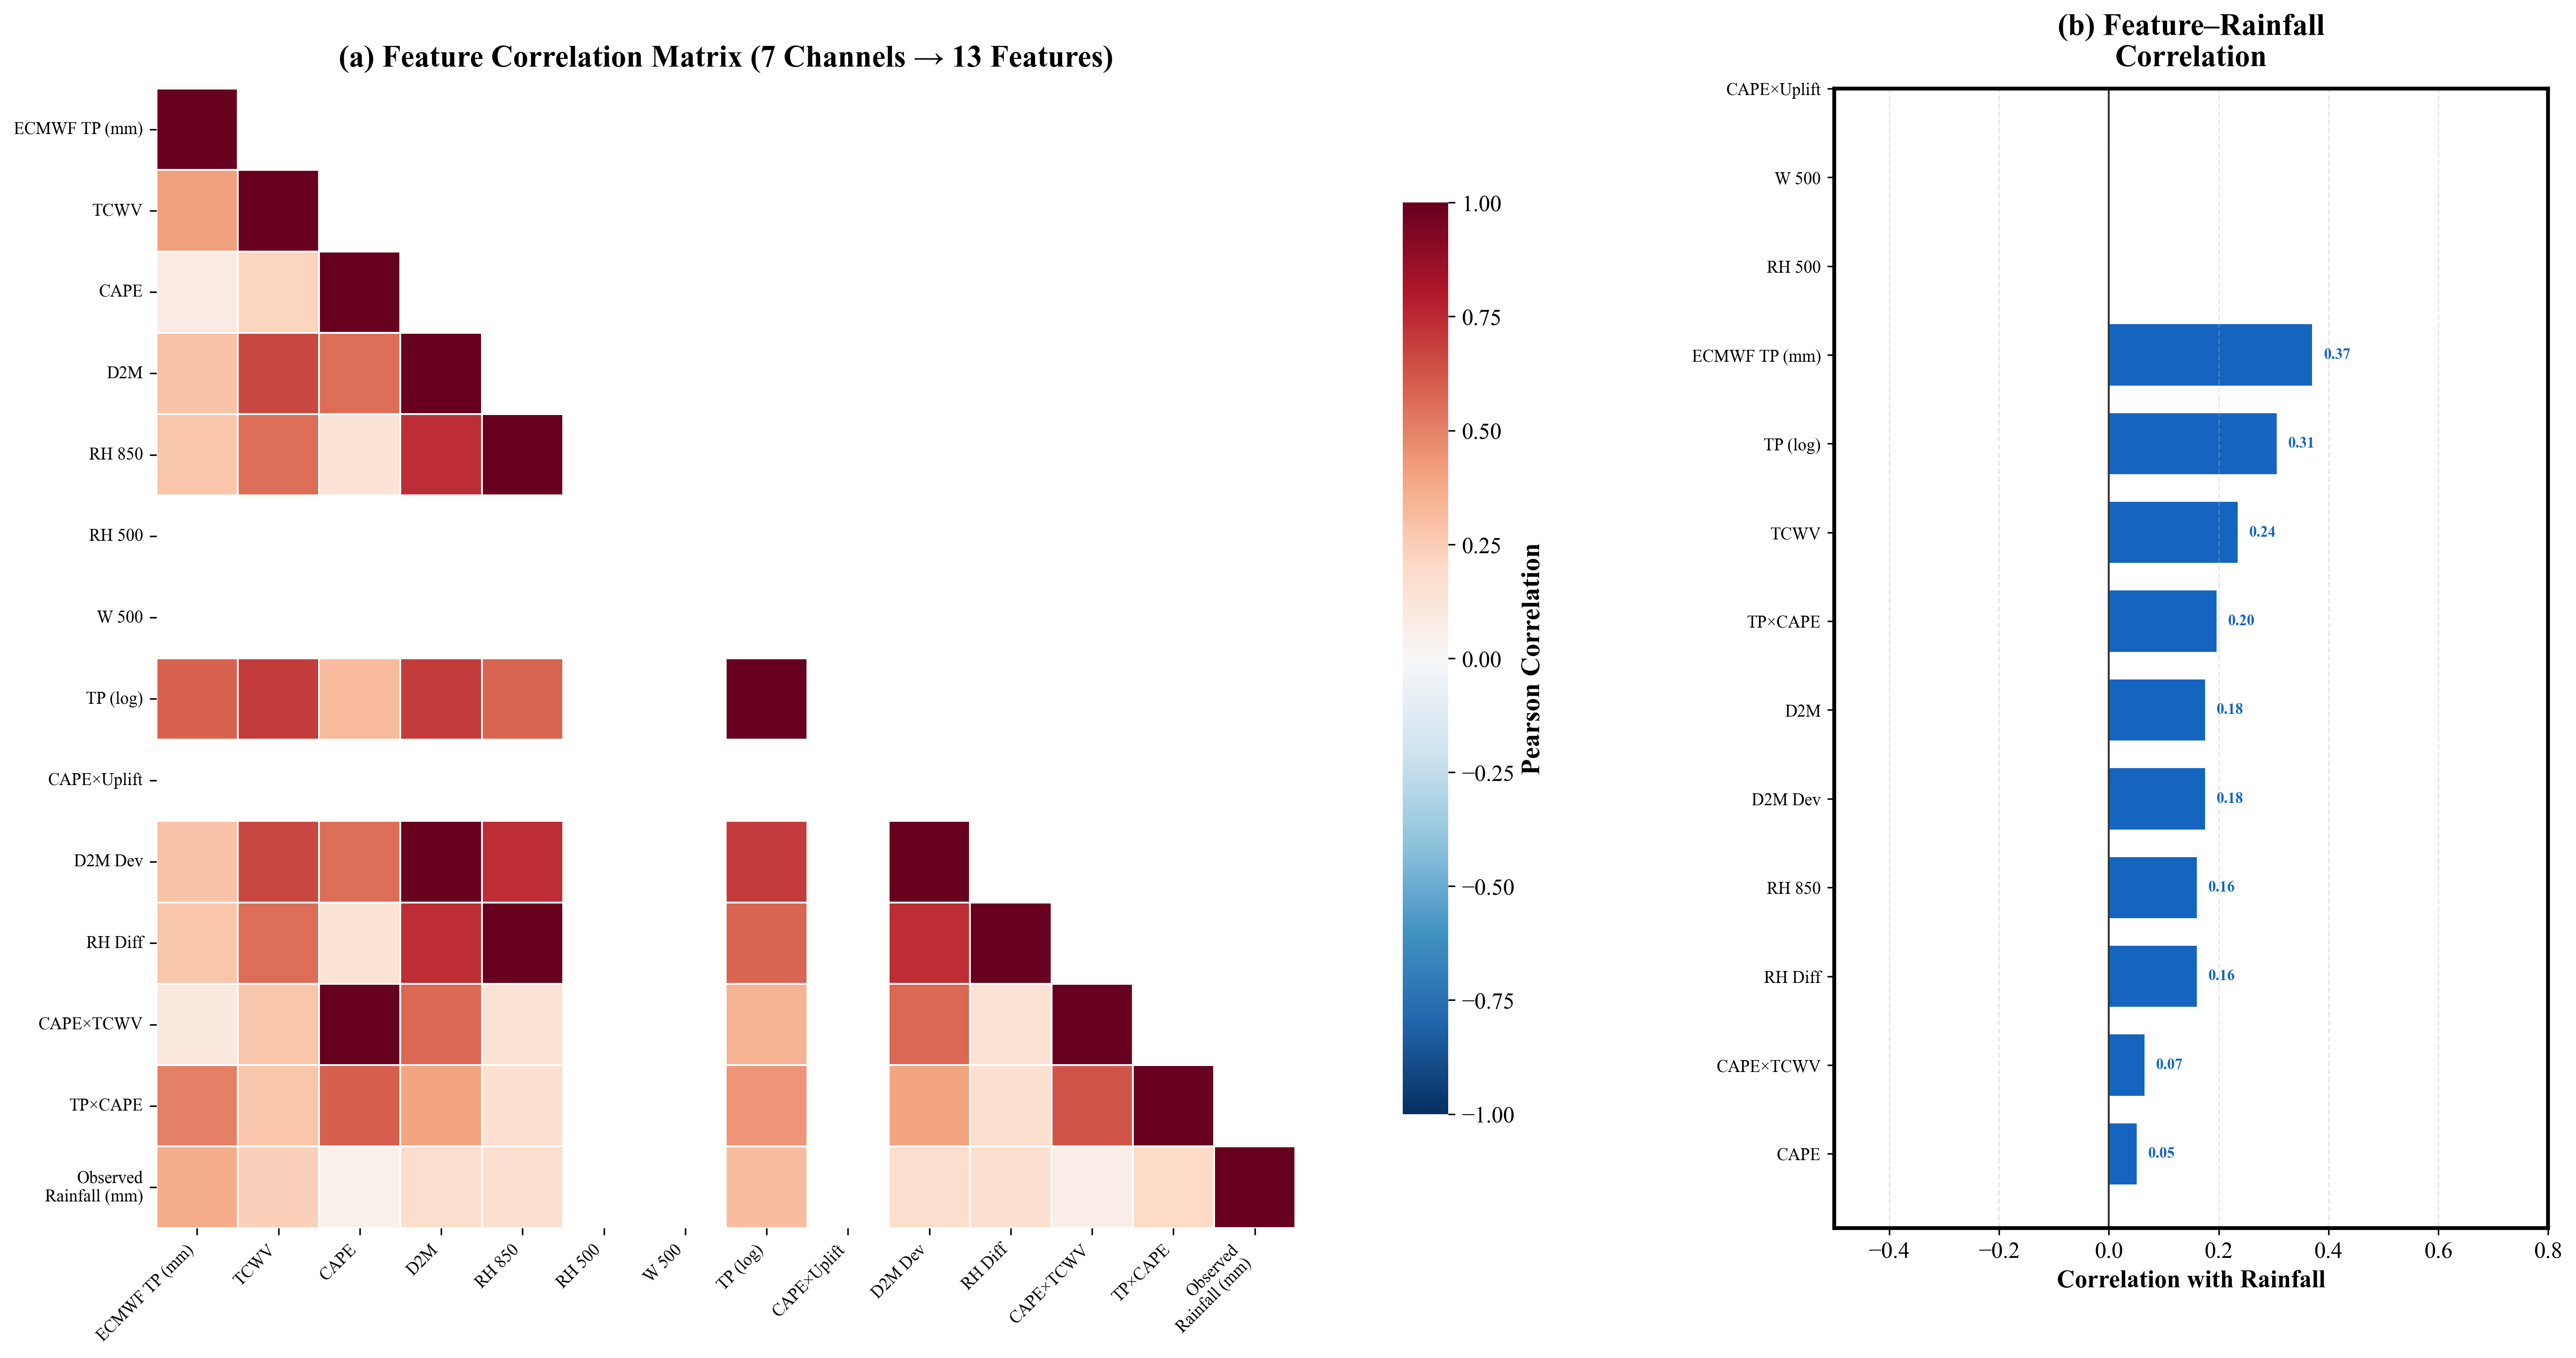
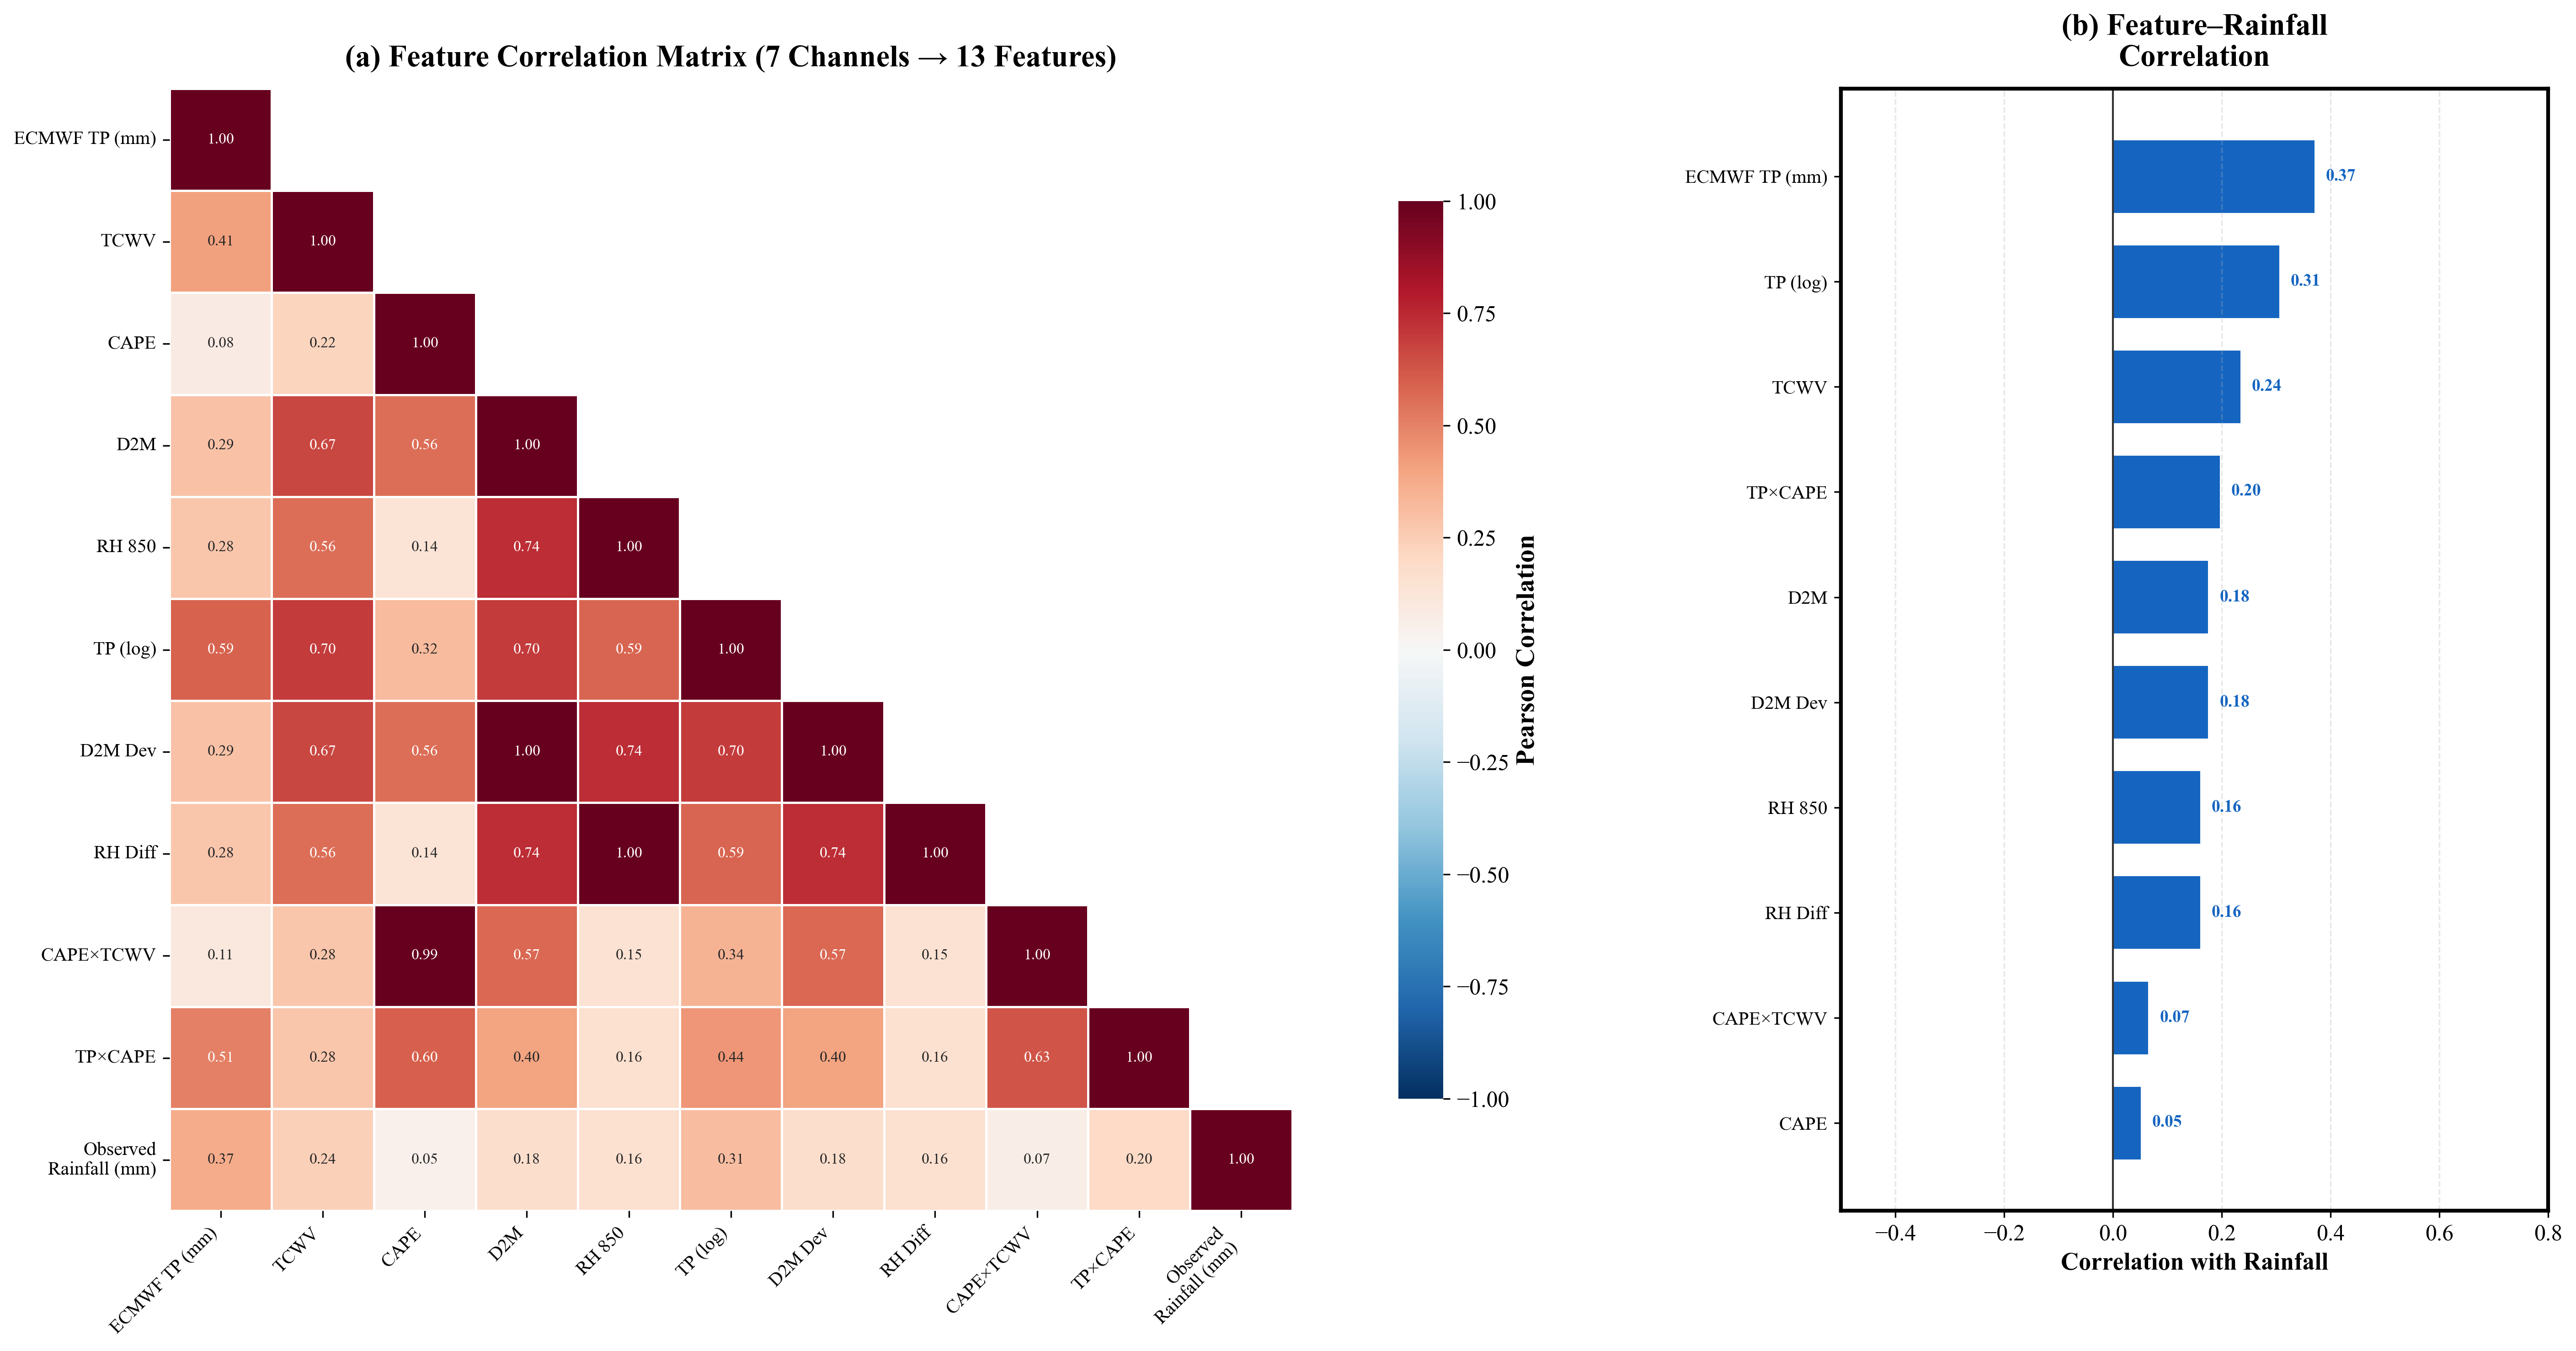
Fix correlation heatmap gaps, timeseries year=2019 ylim=100, exact values, PPT updated

diff --git a/paper_figures/fig_correlation.py b/paper_figures/fig_correlation.py
@@ -62,23 +62,37 @@ if len(names) < n_feats:
 df = pd.DataFrame(tabular, columns=names)
 df['Observed\nRainfall (mm)'] = targets
 
+# Drop any zero-variance columns (they produce NaN correlations)
+std = df.std()
+zero_var = std[std == 0].index.tolist()
+if zero_var:
+    print(f"  Dropping zero-variance features: {zero_var}")
+    df = df.drop(columns=zero_var)
+
 # ── Compute correlation matrix ──
 corr = df.corr()
+# Fill any remaining NaN with 0 (e.g., from perfectly constant columns)
+corr = corr.fillna(0)
+
+print(f"  Correlation matrix shape: {corr.shape}")
+print(f"  NaN count: {corr.isna().sum().sum()}")
 
 # ── Plot ──
 fig, axes = plt.subplots(1, 2, figsize=(22, 10),
                           gridspec_kw={'width_ratios': [3, 1]})
 
-# Panel (a): Full correlation matrix
+# Panel (a): Full correlation matrix (lower triangle)
 ax1 = axes[0]
 mask = np.triu(np.ones_like(corr, dtype=bool), k=1)
 sns.heatmap(corr, mask=mask, cmap='RdBu_r', center=0,
             vmin=-1, vmax=1, square=True,
-            linewidths=0.5, linecolor='white',
+            linewidths=0.8, linecolor='white',
             cbar_kws={'shrink': 0.8, 'label': 'Pearson Correlation'},
-            annot=False, ax=ax1)
-ax1.set_title('(a) Feature Correlation Matrix (7 Channels → 13 Features)', fontsize=16, fontweight='bold', pad=12)
-ax1.tick_params(axis='both', labelsize=9)
+            annot=True, fmt='.2f', annot_kws={'size': 8},
+            ax=ax1)
+ax1.set_title('(a) Feature Correlation Matrix (7 Channels \u2192 13 Features)',
+              fontsize=16, fontweight='bold', pad=12)
+ax1.tick_params(axis='both', labelsize=10)
 plt.setp(ax1.xaxis.get_majorticklabels(), rotation=45, ha='right')
 plt.setp(ax1.yaxis.get_majorticklabels(), rotation=0)
 
@@ -91,9 +105,9 @@ bars = ax2.barh(range(len(rainfall_corr)), rainfall_corr.values, color=colors,
                 edgecolor='white', linewidth=0.5, height=0.7)
 
 ax2.set_yticks(range(len(rainfall_corr)))
-ax2.set_yticklabels(rainfall_corr.index, fontsize=9)
+ax2.set_yticklabels(rainfall_corr.index, fontsize=10)
 ax2.set_xlabel('Correlation with Rainfall', fontsize=13, fontweight='bold')
-ax2.set_title('(b) Feature–Rainfall\nCorrelation', fontsize=16, fontweight='bold', pad=12)
+ax2.set_title('(b) Feature\u2013Rainfall\nCorrelation', fontsize=16, fontweight='bold', pad=12)
 ax2.axvline(x=0, color='#333', linewidth=1, linestyle='-')
 ax2.set_xlim(-0.5, 0.8)
 ax2.grid(axis='x', alpha=0.3, linestyle='--')
@@ -103,7 +117,7 @@ for i, (v, name) in enumerate(zip(rainfall_corr.values, rainfall_corr.index)):
     ax2.text(v + 0.02 if v >= 0 else v - 0.02,
              i, f'{v:.2f}', va='center',
              ha='left' if v >= 0 else 'right',
-             fontsize=8, fontweight='bold',
+             fontsize=9, fontweight='bold',
              color='#1565C0' if v >= 0 else '#C62828')
 
 for sp in ax2.spines.values():
@@ -115,3 +129,4 @@ out = r"D:\NEW_NRSC\paper_figures\Fig_Correlation_Heatmap.png"
 fig.savefig(out, dpi=300, bbox_inches='tight', facecolor='white', edgecolor='none')
 plt.close(fig)
 print(f"\n[OK] Saved -> {out}")
+

diff --git a/paper_figures/create_ppt.py b/paper_figures/create_ppt.py
@@ -125,13 +125,13 @@ figure_files = [
     r"D:\NEW_NRSC\paper_figures\Fig8_LOYO_Yearly.png",
     r"D:\NEW_NRSC\paper_figures\Fig9_Comprehensive_Table.png",
     r"D:\NEW_NRSC\paper_figures\Fig10_Improvement_Summary.png",
-    r"D:\NEW_NRSC\paper_figures\Fig11_Timeseries_2021_Chevella.png",
-    r"D:\NEW_NRSC\paper_figures\Fig11_Timeseries_2021_Hayathnagar.png",
-    r"D:\NEW_NRSC\paper_figures\Fig11_Timeseries_2021_Ibrahimpatnam.png",
-    r"D:\NEW_NRSC\paper_figures\Fig11_Timeseries_2021_Kondurg.png",
-    r"D:\NEW_NRSC\paper_figures\Fig11_Timeseries_2021_Maheshwaram.png",
-    r"D:\NEW_NRSC\paper_figures\Fig11_Timeseries_2021_Saroornagar.png",
-    r"D:\NEW_NRSC\paper_figures\Fig11_Timeseries_2021_Yacharam.png",
+    r"D:\NEW_NRSC\paper_figures\Fig11_Timeseries_2019_Chevella.png",
+    r"D:\NEW_NRSC\paper_figures\Fig11_Timeseries_2019_Hayathnagar.png",
+    r"D:\NEW_NRSC\paper_figures\Fig11_Timeseries_2019_Ibrahimpatnam.png",
+    r"D:\NEW_NRSC\paper_figures\Fig11_Timeseries_2019_Kondurg.png",
+    r"D:\NEW_NRSC\paper_figures\Fig11_Timeseries_2019_Maheshwaram.png",
+    r"D:\NEW_NRSC\paper_figures\Fig11_Timeseries_2019_Saroornagar.png",
+    r"D:\NEW_NRSC\paper_figures\Fig11_Timeseries_2019_Yacharam.png",
 ]
 
 for img_path in figure_files:

diff --git a/check_max.py b/check_max.py
@@ -1,0 +1,9 @@
+import pandas as pd
+df = pd.read_csv(r"D:\NEW_NRSC\Final_ground_truth_data.csv")
+df["Date"] = pd.to_datetime(df["Date"])
+df_2023 = df[(df["Date"].dt.year == 2023) & (df["Date"].dt.month.isin([6,7,8,9]))]
+print(f"Max rainfall in 2023 monsoon: {df_2023['Rainfall'].max():.1f} mm")
+print(f"\nPer-station max:")
+for stn in df_2023["Station"].unique():
+    mx = df_2023[df_2023["Station"]==stn]["Rainfall"].max()
+    print(f"  {stn}: {mx:.1f} mm")

diff --git a/paper_figures/fig11_timeseries.py b/paper_figures/fig11_timeseries.py
@@ -5,7 +5,7 @@ For each station, ONE plot showing:
   Observed  vs  Our Model (9x9)  vs  ECMWF (9 km)  vs  GFS (25 km)
 
 Only the 2024 monsoon season (JJAS) is plotted — the unseen temporal
-test year.  Our model uses the temporal split (train 2015-2021,
+test year.  Our model uses the temporal split (train 2015-2023,
 val 2022-2023, test 2024) so there is ZERO data leakage.
 
 OUTPUT: 7 images (1 per station) in timeseries_2024/
@@ -69,7 +69,7 @@ OUT_DIR.mkdir(exist_ok=True)
 
 MONSOON    = [6, 7, 8, 9]
 YEARS      = list(range(2015, 2025))
-PLOT_YEAR  = 2021
+PLOT_YEAR  = 2019
 WINDOW     = 9
 
 # ---------------------------------------------------------------
@@ -252,7 +252,7 @@ def get_model_predictions_temporal(df, stations):
 
     print(f"    valid_df_indices: {len(valid_df_indices)}, all_targets: {len(all_targets)}")
 
-    # LOYO split: leave out PLOT_YEAR (2021) as test
+    # LOYO split: leave out PLOT_YEAR (2023) as test
     LOYO_TEST = [PLOT_YEAR]
     LOYO_VAL  = [PLOT_YEAR - 1]  # 2020 as validation
     LOYO_TRAIN = [y for y in YEARS if y not in LOYO_TEST and y not in LOYO_VAL]
@@ -503,7 +503,8 @@ def plot_station(stn_name, dates, obs, model_pred, ecmwf_pred, gfs_pred,
         sp.set_linewidth(2.5)
         sp.set_color("black")
 
-    ax.set_ylim(0, 160)
+    ax.set_ylim(0, 100)
+    ax.set_yticks(range(0, 101, 20))
     ax.grid(False)
 
     plt.tight_layout()